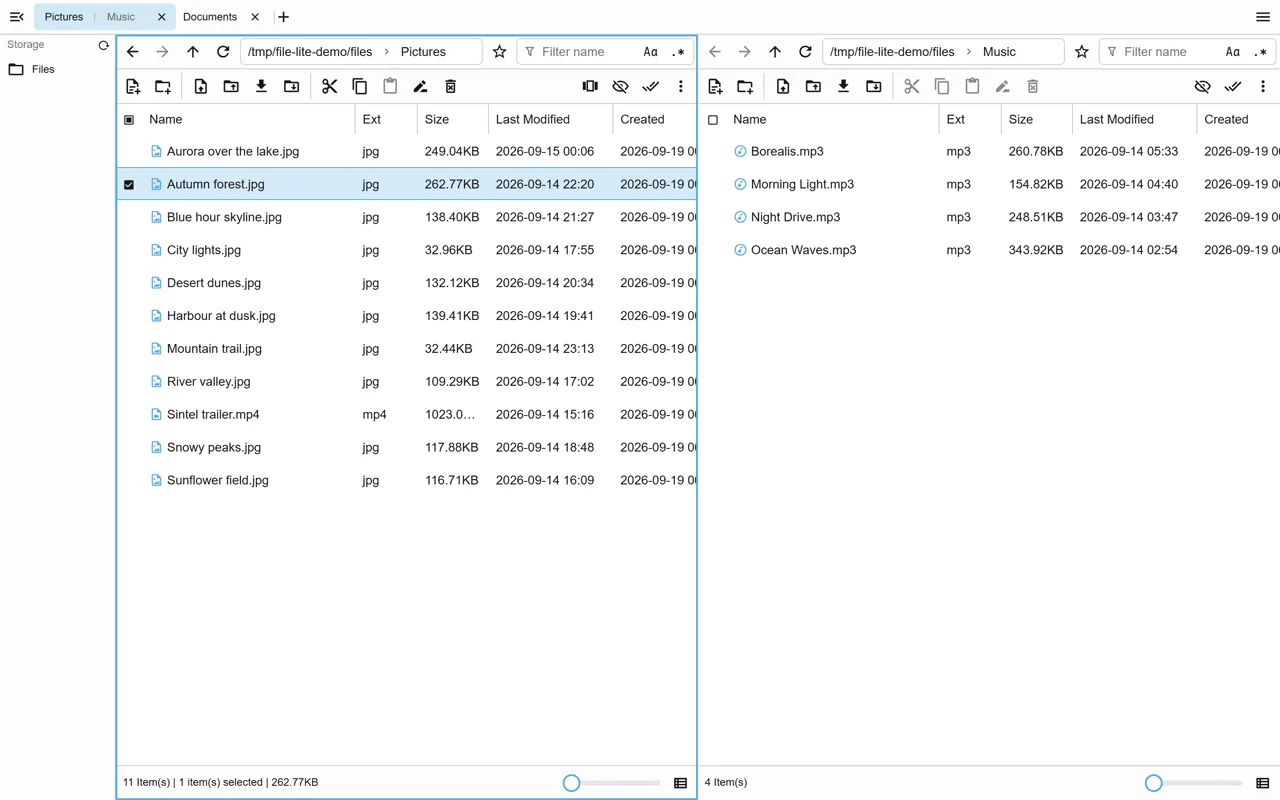
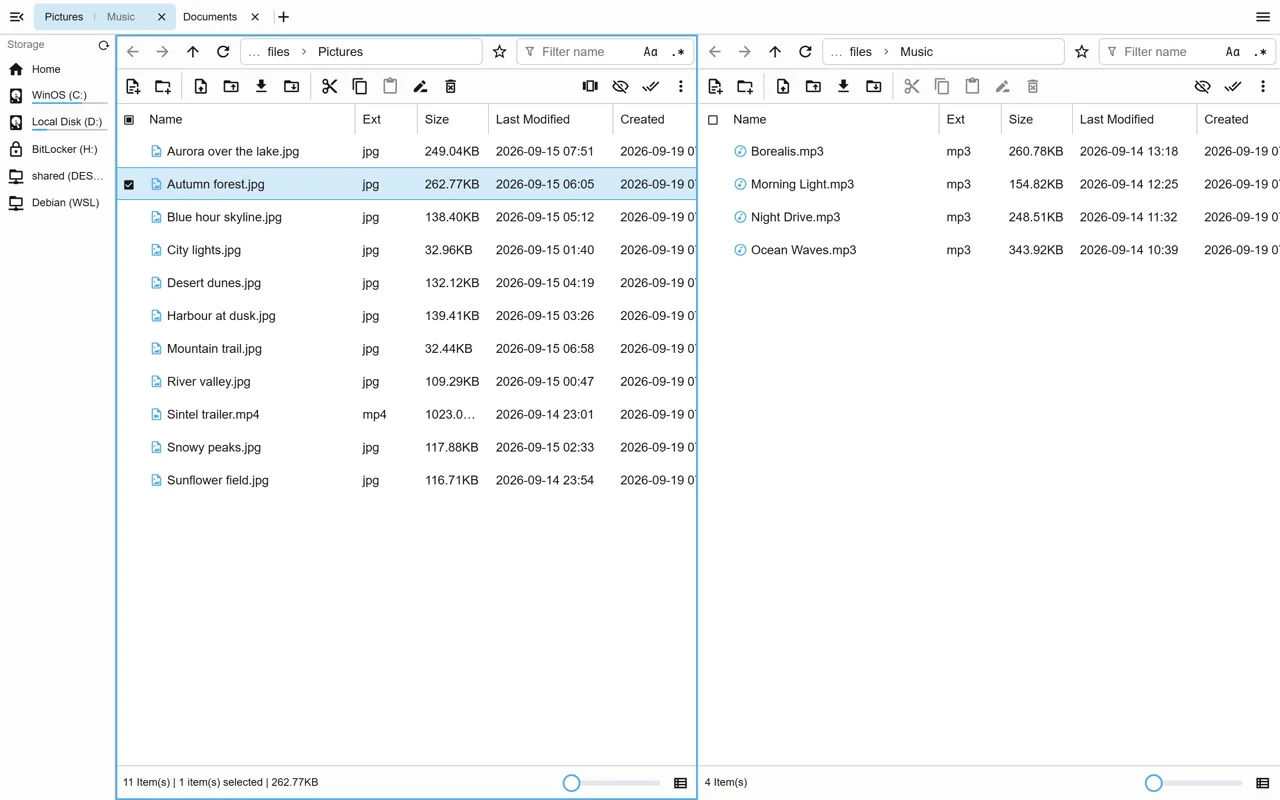
chore: show the real location list in the README screenshots
README 截图原先在测试侧把盘列表压成「演示库是唯一的盘」，于是侧边栏
永远只有一行 Files。而 1.5.0 的位置列表恰恰是这版要展示的功能之一：
本机卷、网络位置、WSL 发行版、被 BitLocker 锁住的卷。把它压掉等于
把这些功能从展示里删掉，所以截图改用真实的 /api/files/drives。

代价是演示库不再是侧边栏第一项（它只是 D: 卷下的一个普通目录），
于是脚本改用 ?navPath= 深链进演示库，goToRoot 也走同一个入口——
都是应用自身的深链能力，不需要为了截图改动产品行为。

同时给 docs/screenshots/ 加 .gitignore：writeScreenshot() 会先落一份
.png 再压成 .webp，那份 .png 是中间产物，不入库（.webp 仍然提交，
00-main.webp 是手工精修的主图）。

diff --git a/e2e/README.md b/e2e/README.md
@@ -79,7 +79,8 @@ bun run report       # 打开上一次的 HTML 报告
 测试直接往里写即可，也不会留下未跟踪的空目录。
 
 > 与 README 功能表格用的截图要分清：那些是人工挑选的展示图，由
-> `bun run docs:screenshots` 生成到 `../docs/screenshots/`，**仍然提交**。
+> `bun run docs:screenshots` 生成到 `../docs/screenshots/`，**仍然提交**（只提交
+> `.webp`；同目录的 `.png` 是压缩前的中间产物，见下）。
 
 ## README 截图
 
@@ -96,6 +97,13 @@ bun run docs:screenshots --refresh    # 重新下载演示素材
 - 演示内容不碰测试夹具：`scripts/docs-fixture.mjs` 会在 `/tmp/file-lite-demo/` 下
   单独建一份「Pictures / Videos / Music / Media / Documents」演示库（可用 `E2E_DOCS_DIR` 改位置）。
   放 `/tmp` 而不是仓库里，是因为地址栏显示绝对路径，放仓库会把仓库路径印进截图。
+- **盘列表用真实的，不做替身**：截图要展示的功能里包括侧边栏的位置列表
+  （卷、网络位置、WSL 发行版、被 BitLocker 锁住的卷），把它压成「演示库是唯一的盘」
+  就等于把这些功能从展示里删掉了。代价是演示库不再是侧边栏第一项，所以脚本改用
+  `?navPath=` 深链直接进演示库，`goToRoot` 走的也是同一个入口——都是应用自身的深链能力，
+  不需要为截图改动产品行为。
+- 只有 `.webp` 入库：`writeScreenshot()` 先写 `.png` 再用 ffmpeg 压成 `.webp`
+  （没有 ffmpeg 时降级为保留 `.png`）。`.png` 是中间产物，已 gitignore。
 - 素材（图片、视频、音频）来自 picsum.photos、download.samplelib.com 与
   test-videos.co.uk，下载后缓存在 `.samples/`（已 gitignore，可复用、不提交）；
   带封面和歌词的 mp3 由本机 ffmpeg 合成，歌词用脚本手工写入 USLT 帧
@@ -174,8 +182,10 @@ e2e/
 │   ├── helpers.ts            # 登录、导航、复制/粘贴、截图等
 │   └── *.spec.ts
 ├── .samples/                 # 素材下载缓存（gitignore，可复用）
-└── screenshots/              # 测试文档用截图（提交）
+└── screenshots/              # 测试文档用截图（不入库）
 ```
+
+`../docs/screenshots/` 则是 README 的展示图，入库；中间的 `.png` 已 gitignore。
 
 > `scripts/fixture.mjs` 与 `scripts/start-app.mjs` 是分开的：测试代码要 import 夹具常量，
 > 如果常量写在会启动服务的文件里，每个测试 worker 都会试图再起一个服务。

diff --git a/docs/design/frontend-ui-testing.md b/docs/design/frontend-ui-testing.md
@@ -12,7 +12,8 @@
 > 它们是一份**「跑到这里该看到什么」的对照表**：本地跑一次
 > `cd e2e && bun run test`，对应文件就会出现在 `e2e/screenshots/` 下。
 > README 功能表格用的展示图是另一回事——那些仍由 `bun run docs:screenshots`
-> 生成到 `../docs/screenshots/`，**仍然提交**。
+> 生成到 `../docs/screenshots/`，**仍然提交**（只提交 `.webp`，压缩前的 `.png`
+> 中间产物已 gitignore）。
 
 
 ## 为什么单独建一个子项目
